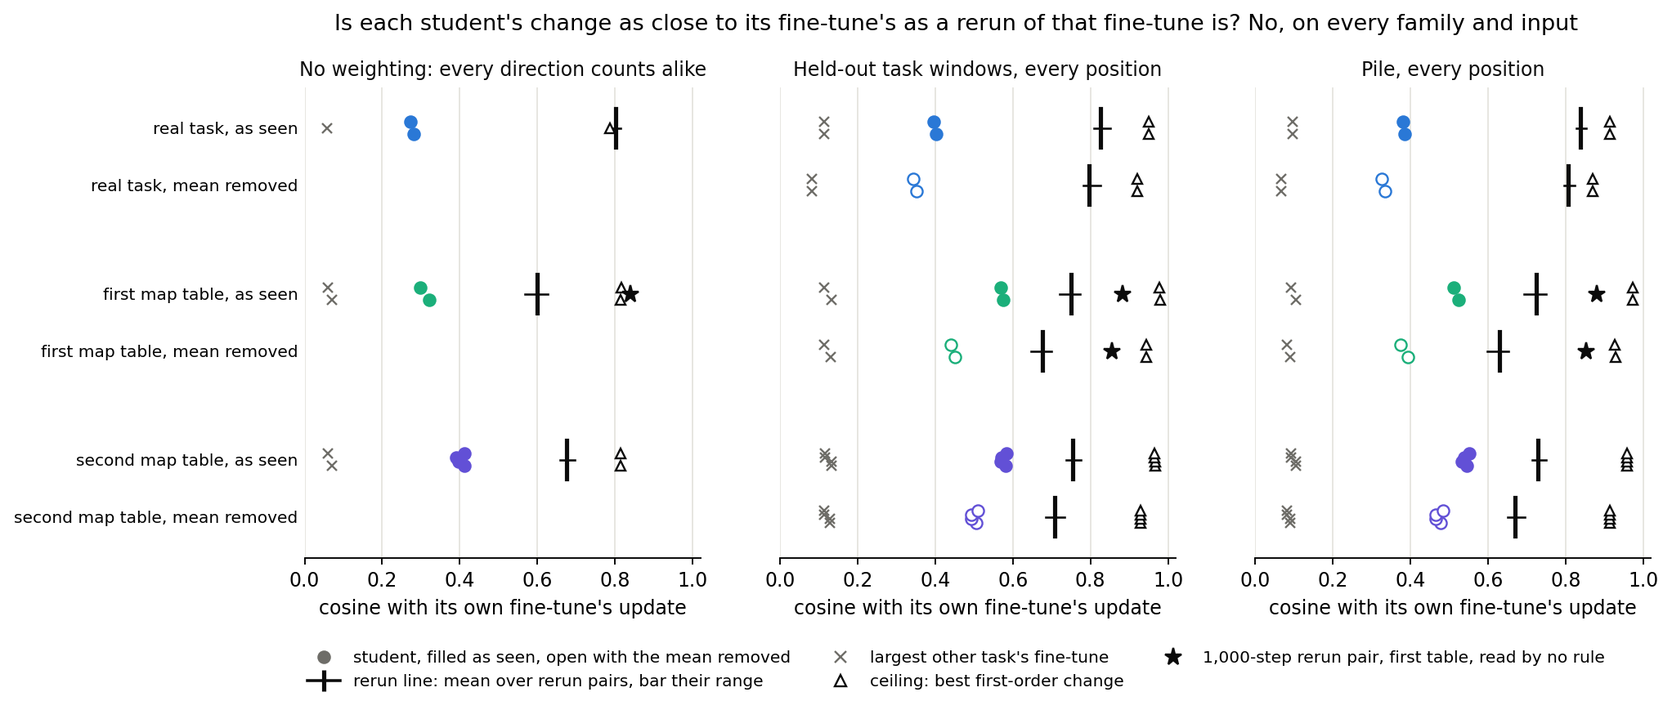
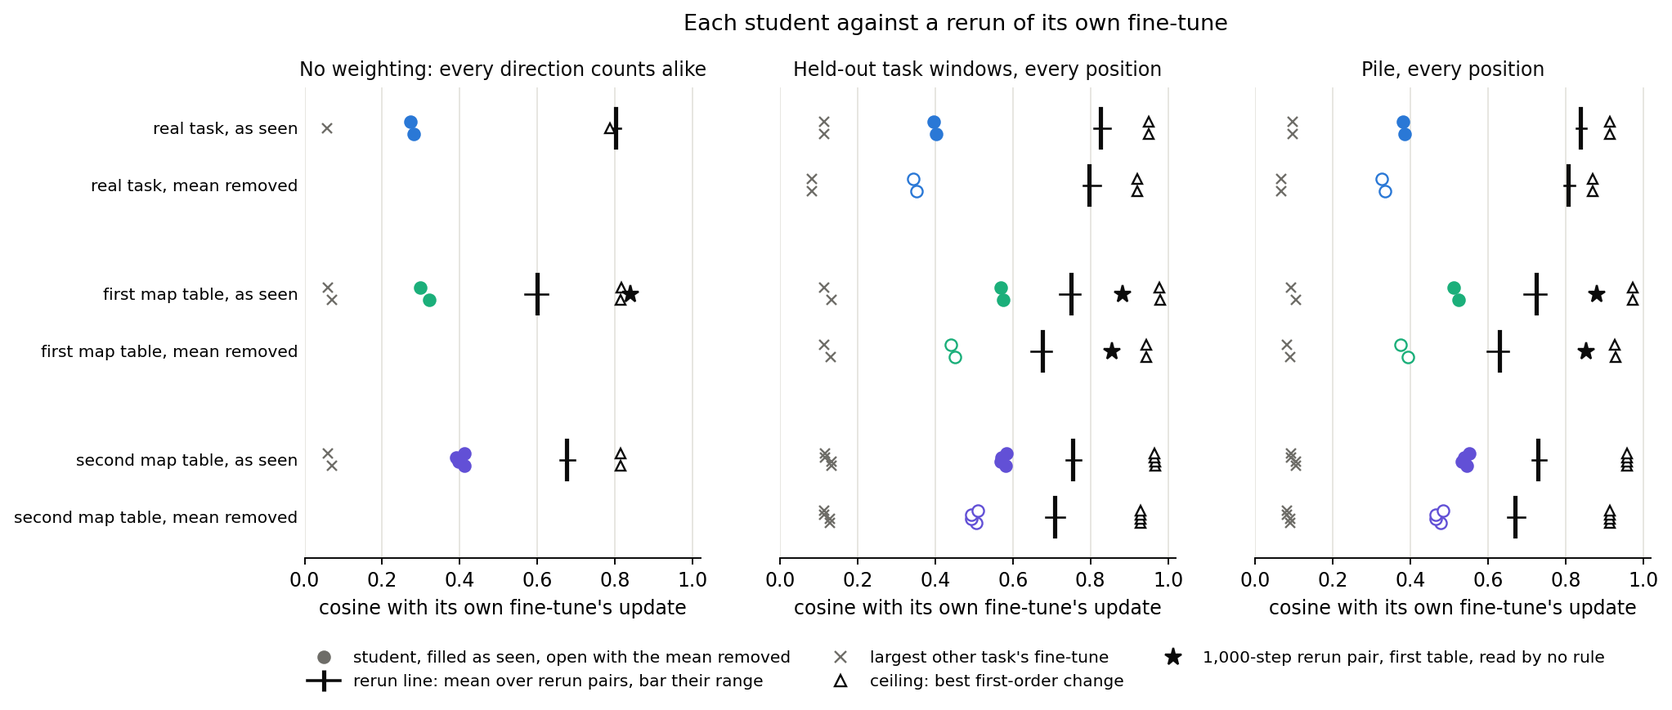
E34 Amendment 10: apply the independent check's findings to the analysis

Changed region(s): [[0.2156, 0.0, 0.955, 0.0621]]

diff --git a/experiments/teacher_training/plot_amend10.py b/experiments/teacher_training/plot_amend10.py
@@ -145,7 +145,7 @@ def cosine_fig() -> None:
     for ax in axes:
         ax.set_xlabel("cosine with its own fine-tune's update")
         ax.set_xlim(0, 1.02)
-    fig.suptitle("Is each student's change as close to its fine-tune's as a rerun of that fine-tune is? No, on every family and input", fontsize=11.5, y=1.0)
+    fig.suptitle("Each student against a rerun of its own fine-tune", fontsize=11.5, y=1.0)
     legend(fig, [
         Line2D([], [], marker="o", color=MUTED, ls="", label="student, filled as seen, open with the mean removed"),
         Line2D([], [], marker="|", color=INK, ms=11, mew=2.2, label="rerun line: mean over rerun pairs, bar their range"),

diff --git a/experiments/TRIED.md b/experiments/TRIED.md
@@ -98,7 +98,7 @@ Codes E1–E13 are the ones the research log ("Update Decomposition", see `READM
 | E34 Amendment 8b | Is the null student's reading more than an adversary start's noise, and does its low gap go with its start or its teacher? (`experiments/teacher_training/amend8b.py`, `cluster/teacher_amend8b.sbatch`, 2026-11-02; predictions `predictions_amend8b.json`; report section "Amendment 8b" of `reports/analyses/2026-11-02_analysis_e34-amend8-base-control.md`, figures `figures/amend8b_{seeds,cells}.png`; MATS L40 `debug`, jobs 48582, 48583, $0) | seeds: saved bf16 states of the real student, null student and random start through the 20-step adversary at starts 0, 1, 2; true-label Adam at start 0 as positive control. moved: the null teacher from the random start's saved start, after that start with teacher = W₀ as control; read at 100 and 1,000 | Controls pass; rebuilds within 3.1% of fp32 reads. S1 filed answer **within noise**: excess 0.305, spread 0.367, positive control apart. Not the filed rule: null above real at each of 3 same-start pairs, 1.22 to 1.39 times, means 1.35 and 1.03. S2: null inconclusive, real and random start pass (0.95). S3: null apart from the random start, size 0.0257 against 0.0228. M1 **the teacher**: gap 0.0115 between a 0.0097 and b 0.0426, position 0.117, against lean 'the start'. Moved state's check 1.56, inconclusive, size 0.0296, damage 0.121, Δ-out 0.821 | A student's reading differs between the base and one null teacher as what it copies; against the real student it is within noise. One null teacher does not stay at the base's level; no cause is known, no run varied damage alone, and the same-damage fine-tune in Δ reads 2.64. One task, one label draw. Why the base as teacher ends so far above a null teacher stays open |
 | E34 Amendment 8c | Does a null student reproduce a direction as the real one does, and how much of each student's weight change lies along its own teacher and the other? (`experiments/teacher_training/amend8c.py`, `cluster/teacher_amend8c.sbatch`, 2026-11-02, from the review's items 1, 2, 5; predictions `predictions_amend8c.json`; report section "Amendment 8c" of `reports/analyses/2026-11-02_analysis_e34-amend8-base-control.md`, figure `figures/amend8c_cosines.png`; MATS L40 `debug`, job 48613, $0) | Real and null students of T1000 and the null fine-tune at step 100, batch orders 0 and 1, E34 arm A recipe; all 15 cosines of δW over the 24 matrices among four students and two teachers; no harness read but W₀'s | Regenerated cosines match Amendment 8's within 0.001. C1 **reproduces**: 0.974 against 0.927, ratio 1.05 (lean 'partly'). C2 both 'own', `follows_own_teacher` true: real 0.274 against 0.019, null 0.367 against 0.048, so 7.5% and 13.4% of squared length along own teacher. C3 'not shown', 0.0019; cross-order cosines 0.086 to 0.091; shared share of the real student with the null 0.105 to 0.111 | Reproducing does not mark the real student. A student's direction overlaps its own teacher's more than the other's, on one pair; "its direction is its teacher's" is not supported. The other 87-93% lies along neither teacher; most of it reproduces across batch orders (about 84-85% of squared length on a shared-vector reading) and is unidentified; saved offsets and `uv0.pt` allow $0 readings |
 | E34 Amendment 9 | Does the student's weight change point along the part of its fine-tune's update the subcomponents could write? (`experiments/teacher_training/amend9.py`, `plot_amend9.py`, 2026-11-02, option D of `reports/plans/2026-11-02_plan_commute-next-draft.md`; plan `reports/plans/2026-11-02_plan_e34-amend9-student-move.md`; predictions `predictions_amend9.json`; analysis `reports/analyses/2026-11-02_analysis_e34-amend9-student-move.md`, notebook `notebooks/E34_teacher_training.ipynb` last section, figures `figures/amend9_*.png`; `cpu-run`, no GPU, $0) | Ten saved students against six saved fine-tunes (real, null, two random-map tables at two seeds): cos(s, I(δW)), cos(s, δW), inside share of δW, student's own inside share, size, over the 24 matrices in fp64, every weight counted alike. Controls first: least-squares first order reads 1, do-nothing reads √share, earlier cosines re-read | Controls pass (2.2e-16; re-read within 1.8e-6). Inside share 0.62-0.67 against a random update's 0.59-0.64 (four saturated matrices give over half of the inside part; on the other 20, 0.44-0.47 against 0.40-0.43, independent check). Cosine real 0.348, 0.357; null on its own 0.461, 0.462; first table 0.365, 0.392; second table 0.481-0.506; other fine-tune 0.023-0.061. P1 'expressible change', P2 'reads its own' twice (other-table lean 'partly' missed), P3 'in the span' (largest 0.00033). Reach along the inside part: real 0.32, 0.33; null and map tables 0.86-1.10 | "Copies" was nearly excluded by arithmetic before the run, and the filed "can express" holds for any student by construction, so P1 could only say "not copies, counted by weight" (a flaw in the filing, not a new verdict). The null fine-tune, which teaches no task but moves predictions 0.53 nats, reads above the real one (0.46 against 0.35) and inside the map tables' range, so the cosine cannot be read as how much was taught; cause untested. Reach depends heavily on fine-tune length (independent check, unfiled). Weight-counted, so it cannot show the student differs from the fine-tuned model on the data: the filed consequence for the headline wording is held back until an input-weighted read. Open oddity, no cause asserted: `h.3.attn.k_proj` reads -0.10, -0.13 on the real students, +0.56 on the null. Not run: input-weighted form, a filed per-matrix read, E42's students, a second real fine-tune, why k_proj |
-| E34 Amendment 10 | Is the student's weight change as close to its fine-tune's as a rerun is, weighted by the inputs the model sees? (`experiments/teacher_training/amend10.py`, `plot_amend10.py`, 2026-11-02, option (a) of card decision-commute-settled; plan `reports/plans/2026-11-02_plan_e34-amend10-input-weighted.md`; predictions `predictions_amend10.json`; results `amend10.json`, `amend10_stopped_job49463.json`; analysis `reports/analyses/2026-11-02_analysis_e34-amend10-input-weighted.md`, notebook `notebooks/E34_teacher_training.ipynb` last section, figures `figures/amend10_*.png`; Slurm 49463 stopped, 49467, L40, $0) | Eight saved students against own fine-tune, by input second moment on W₀: held-out windows and Pile at every position, as seen and with the mean removed; references: reruns in batch order alone, another task's fine-tune, the first-order ceiling. Trigger alone and trigger + task read apart | Further than a rerun in angle and length on both families and every input read. Student as seen on windows and Pile: real 0.38-0.40 against 0.83-0.84, rand32 0.51-0.58 against 0.72-0.75, rand32b 0.53-0.58 against 0.73-0.76. Unweighted were 0.27-0.41, gaps narrowed 0.27-0.53 to 0.18-0.43; side unchanged. Map students further than no change. Seed read 'follows its own run', against the lean. Power control has no content on Pile (k/d 1 on 24 of 24) and little on windows | Line closes on this model with per-family wording: real and rand32 "reproduce behaviour (cited) by a change further than a rerun"; rand32b further than a rerun, keeps gain, loses about a fifth of the re-switching term, "reproduces" not available. Scope: each matrix's output on W₀'s inputs, not the trigger. Not read: downstream effect; cause of the gap. Families not joined: rerun lengths differ (10, 30, 1,000 steps); rand32b's fine-tunes read P(target) about 0.99, not the filed 0.55 |
+| E34 Amendment 10 | Is the student's weight change as close to its fine-tune's as a rerun is, weighted by the inputs the model sees? (`experiments/teacher_training/amend10.py`, `plot_amend10.py`, 2026-11-02, option (a) of card decision-commute-settled; plan `reports/plans/2026-11-02_plan_e34-amend10-input-weighted.md`; predictions `predictions_amend10.json`; results `amend10.json`, `amend10_stopped_job49463.json`; analysis `reports/analyses/2026-11-02_analysis_e34-amend10-input-weighted.md`, notebook `notebooks/E34_teacher_training.ipynb` last section, figures `figures/amend10_*.png`; Slurm 49463 stopped, 49467, L40, $0) | Eight saved students against own fine-tune, by input second moment on W₀: held-out windows and Pile at every position, as seen and with the mean removed; references: reruns in batch order alone, another task's fine-tune, the first-order ceiling. Trigger alone and trigger + task read apart | Further than a rerun in angle and length on both families and every input read. Student as seen on windows and Pile: real 0.38-0.40 against 0.83-0.84, rand32 0.51-0.58 against 0.72-0.75, rand32b 0.53-0.58 against 0.73-0.76. Unweighted were 0.27-0.41, gaps narrowed 0.27-0.52 to 0.18-0.43; side unchanged. Map students further than no change. Seed read 'follows its own run', against the lean. Power control has no content on Pile (k/d 1 on 24 of 24) and little on windows | Line closes on this model with per-family wording: real and rand32 "reproduce behaviour (cited) by a change further than a rerun"; rand32b further than a rerun, keeps gain, loses about a fifth of the re-switching term, "reproduces" not available. Scope: pooled over the 24 matrices, at each matrix's output on W₀'s inputs, not the trigger. Not read: downstream effect; cause of the gap. Families not joined: rerun lengths differ (10, 30, 1,000 steps); rand32b's fine-tunes read P(target) about 0.99, not the filed 0.55 |
 | E46 | Re-gating line reset, stage 0: is the gate gain g (log-odds the target gains from the change in which subcomponents Γ turns on) an instrument, i.e. does it pass nulls a real fine-tune fails? (`experiments/regating_table/`, 2026-10-28/29; plan `reports/plans/2026-10-28_plan_regating-line-reset.md` with Amendments 1-3; reports `reports/analyses/2026-10-29_analysis_e46-regating-table.md` and `reports/analyses/2026-10-29_analysis_e46-amendment3.md`, notebook `notebooks/E46_regating_table.ipynb`) | On the 67M: E18 and E12 fine-tunes (copy and random-map tasks, two seeds) against nulls: other-target fine-tune, sign-flipped δW, a Gaussian δW matched to the fine-tune's off-target KL (Amendment 2 raised the unsourced 10x norm cap to 100 after it bound on 6 of 7 rows), and a per-key direct write into block 1's MLP output (P0.4). Amendment 3 split the write and random nulls by least squares and read stage 1's stand-in ratio on them. Slurm 42604, 42675, 42791, 42993, $0 | P0.2 replicated E12 (copy 0.87-0.97, random-map 0.36-0.41). P0.4 passed thinly (write reads 0.16 and 0.34 of the copy fine-tune, 0.48 and 0.65 of the random-map fine-tunes). P0.3 inconclusive at matched KL: 6 of 7 random rows over the 0.1-nat floor (largest rand32 +0.49 against a fine-tune 3.75), none at the fail bar; g follows the random change's own real gain G. Amendment 3: the split hand writes read: random map A 0.40 against 0.36; random map B 0.57 against 0.39-0.41; copy writes, confounded, 0.89 and 1.13; random rows undefined (subcomponent gain under 1 nat); writes split with 38% in-span against 80%; A3.1 missed on random map B (interval clears the fine-tunes'), tree branch 5. Reading of the cells: masked gain = g + 0.04-0.51 nats, so the ratio is nearly g over the subcomponent gain; the split changes kept are 0.01-0.05 of it on every row | The stand-in ratio adds little beyond stage 0's g and the in-span share and reads misleadingly as a share kept; card: its role in stage 1 (lead: drop it) |
 | E47 | Claim tests: do the five claims the red team weakened survive two to four adversary starts and the missing controls? (`experiments/claim_tests/`, 2026-10-28/29; plan `reports/plans/2026-10-28_plan_claim-tests.md` with Amendment 1; review answered `reports/reviews/2026-10-29_review_claims-red-team.md` (addendum 2026-10-29); predictions `results/predictions.json`; results `results/{t1,t1b,t2,t2b,t2c,t3,t4,t4b,t5,t5b,combined}.json`; analysis `reports/analyses/2026-10-29_analysis_e47-claim-tests.md`, notebook `notebooks/E47_claim_tests.ipynb`, figures `figures/e47_*.png` from `plot.py`; MATS cluster L40, debug QoS, jobs 42651-42654, 42666, 42667, 42669, 42670, 42719, 42772, 42860 (t4c), 3-24 min each, $0) | On the 67M, Pile val rows 0-255 (t2c: 256-511), lines from each job's W₀ floor (1.241 / 1.813; t2c 1.450 / 1.552). (i) E34 r1 and E42 rand32 teacher-trained decompositions vs regenerated do-nothing at the budget start and harness starts 0-2; (ii) LoRA rank 8, 32, 128 teacher-trained, mean of harness starts 0-1, full-rank Adam control, two row sets; (iii) r1 plain-SGD keep at rate 0.03 stopped at the rate-0.01 run's sizes, seeds 0-1, plus the step-1000 update scaled down; (iv) E43 do-nothing vs teacher training plus remainder at steps 10 and 1000, harness starts 0-2; (v) plain SGD as teacher training's optimiser on r1's Adam and LoRA teachers at (0.03, 100), (0.01, 1000), (0.003, 1000) | (i) stands on both teachers: copies worst 1.225 and 1.012, every do-nothing fails somewhere (rand32's power from starts 1-2). (ii) still weakened: rank 8 inconclusive on rows 0-255 (1.276), passes on 256-511 (1.154); rank 128 climbs to 1.532 on 256-511 only; combined absolute and cap unsettled. (iii) mixed on both seeds (lean falls): the faster run keeps 0.08-0.09 more at matched size; size alone not isolated, the scaled-down arm unscored (P 0.06-0.26). (iv) unsettled at both steps: step 1000 q 1.27, 1.005, 1.11; step 10 'falls' by its rule, carried by one start (q 0.65 at h0; 0.96, 1.07), and the follow-up t4c (job 42860, plan Amendment 2) read the step-10 teacher-trained state alone below do-nothing at all three starts (1.69, 1.22, 1.09 vs 2.18, 1.67, 1.33), with plus remainder below both at h0, between at h1, above both at h2 (mixed, as leaned): the remainder's effect flips sign across starts. (v) falls: all six smaller cells pass (0.98-1.17, P ≥ 0.986); only (0.03, 1000) fails, 3.30, read on the Adam teacher only. Independent check `reports/reviews/2026-10-29_review_e47-analysis-check.md` confirmed all verdicts | Four pending cards drafted in the analysis: (ii) rank sweep on rows 256-511, (iii) rewording, (iv) drop the claim, (v) rescope; claims section for (i), (iii), (iv), (v) queued; ranks 32-64 on rows 256-511 with a three-start floor for (ii); rescope `decisions.md` row 50 for (v) |
 | E48 | Pass re-read, stage 1: is the unchanged decomposition's CI-masked model already poor at the cue of the cipher windows, so that the new pass reading ("behaviour kept by the parts Γ switches on, leftover weights at the original's, on the task's own text", decision "Card triage" (2)) would judge VPD rather than the map? (`experiments/pass_reread/run.py`, `src/commute/pass_reading.py`, 2026-10-29; plan `reports/plans/2026-10-29_plan_e48-pass-reread.md`; predictions `results/predictions.json`; results `results/saved.json`; analysis `reports/analyses/2026-10-29_analysis_e48-pass-reread.md`, notebook `notebooks/E48_pass_reread.ipynb`, figure `figures/e48_s1_fidelity.png` from `plot.py`; MATS cluster L40, debug QoS, job 42757, 2 min, $0) | W₀ alone: KL(W₀ ‖ CI-masked W₀, Δ at Δ₀) at the trigger of each task's held-out windows, divided by the same KL per position on the harness's 256 Pile val rows (F); stop rule F ≥ 1.5 on rand32 or rand1 → fallback; ident32 and the four E34 tasks' triggers printed beside | Apparatus passed (Δ-out Pile KL 0.3482 vs 0.348; fp32 mask-1 path −1.3e-9). F = 1.86 on rand32, 2.21 on rand1 (both over), 1.86 on ident32 (identical to rand32 by construction: same windows, K₀ never reads the target); the E34 tasks' triggers 0.76-1.48. Δ₀ in or out changes every K by under 0.004 nats. S1 = fallback, as leaned | Fallback to option (c) under the user's decision: reading A decides the pass, the cue reading is printed beside it. Stage 2 (the saved E42 and E34 copies under the new reading), stage 3 (carriers of the E42 gain) and job 2 (E34's regenerated copies) not run, by design; P1-P7 unscored. The rare target stays "not placed, narrow miss" under reading A (decision (7)), no rerun |

diff --git a/reports/analyses/2026-11-02_analysis_e34-amend10-input-weighted.md b/reports/analyses/2026-11-02_analysis_e34-amend10-input-weighted.md
@@ -2,19 +2,19 @@
 
 *E34 Amendment 10, 2026-11-02. Plan `reports/plans/2026-11-02_plan_e34-amend10-input-weighted.md`. Rules `experiments/teacher_training/results/predictions_amend10.json`. Results `results/amend10.json`, job 49467: L40, `debug`, $0. Figures `plot_amend10.py`. Review `reports/reviews/2026-11-02_review_e34-amend10-code.md`; only that one review, as this was a free job with the controls first.*
 
-We compared each decomposition after teacher training with its fine-tuned model's update, on the inputs the model sees, and against reruns of the same fine-tune. On every task the change is further from the fine-tune's than a rerun is, in angle and in distance, so "copies the fine-tune's change on real inputs" is not available. For `GOALS.md`, the wording comes per task from the filed table below, its behaviour half cited from earlier runs, and the commute line closes on this model.
+We compared each decomposition after teacher training with its fine-tuned model's update, on the inputs the model sees, and against reruns of the same fine-tune. In each family separately, the change is further from the fine-tune's than a rerun of its own length, in angle and in distance, so "copies the fine-tune's change on real inputs" is not available. For `GOALS.md`, the wording comes per task from the filed table below, its behaviour half cited from earlier runs, and the commute line closes on this model.
 
 ## The wording, per family
 
-The filed outcome is "further than a rerun", in angle and in length, on both families. No sentence joins them.
+The filed outcome is "further than a rerun", in angle and in length, in each family taken by itself. No sentence joins the families.
 
-- **Real task.** Reproduces its behaviour by a change further from the fine-tune's than a rerun is. The behaviour is cited from E34, 0.0286 nats from the fine-tuned model.
+- **Real task.** Reproduces its behaviour by a change further from the fine-tune's than a rerun is, at cosine 0.38 to 0.40 and distance 0.95 to 1.04 as seen, 0.33 to 0.35 and 0.99 to 1.04 with the mean removed. The behaviour is cited from E34, 0.0286 nats from the fine-tuned model.
 - **First map table, `rand32`.** Reproduces its behaviour by a change further from the fine-tune's than a 10-step rerun is. The behaviour is cited from E12 Amendment 2: its gain ratio is 1.02, and the re-switching term moves 2%.
 - **Second map table, `rand32b`.** Further than a 30-step rerun, keeps its gain, and loses about a fifth of the re-switching term. Both are cited from E12 Amendment 2. "Reproduces its behaviour" is not available here.
 
-**Scope of each sentence.** Each holds at each matrix's output on W₀'s inputs, at every position of held-out windows and of Pile. None is about the trigger, and this job read no behaviour. "Different change" may mean only "further than a rerun". The re-switching term is what Γ's changed values give the released subcomponents.
+**Scope of each sentence.** Each holds pooled over the 24 matrices, at each matrix's output on W₀'s inputs, at every position of held-out windows and of Pile. None is about the trigger, and this job read no behaviour. Provisional, unfiled, no margin of its own (review `reports/reviews/2026-11-02_review_e34-amend10-analysis.md`, finding 1): on the map tables, 1 to 4 of 24 single matrices read above the rerun line, `h.0.mlp.down_proj` for all six students (0.80 to 0.89 against 0.71 to 0.81). No verdict reads it. "Different change" may mean only "further than a rerun". The re-switching term is what Γ's changed values give the released subcomponents.
 
-**Read apart.** At the trigger alone, and under the training's own weighting of trigger plus task, both families also read further on both axes. Neither read decides against the sentences.
+**Read apart.** At the trigger alone, and under the training's own weighting of trigger plus task, each family also reads further on both axes, taken by itself. Neither read decides against the sentences.
 
 ## What we measured
 
@@ -28,7 +28,7 @@ The references are reruns differing only in batch order, the largest cosine from
 
 ![amend10_cosine](../../experiments/teacher_training/figures/amend10_cosine.png)
 
-**Reading it.** No, for all eight students, in both forms on both input sets. Each student sits far above another task's fine-tune, so it follows its task, and far under the rerun line. The ceiling is above the line everywhere, so "further" is not forced by construction. On the map tables the shortfall is at least 0.17, and on the real task at least 0.42. Margins are about 0.05.
+**Reading it.** In each family separately, no student is as close as a rerun of its own fine-tune, in both forms on both input sets. Each student sits far above another task's fine-tune, so it follows its task, and far under the rerun line. The ceiling is above the line on both input sets, so "further" is not forced by construction. On the map tables the shortfall is at least 0.17, and on the real task at least 0.42. Cosine margins are about 0.05.
 
 | As seen; mean removed | Student | Rerun line | Other task | Ceiling |
 |---|---|---|---|---|
@@ -45,7 +45,7 @@ Student is each family's midpoint; its students lie within 0.02. Other task is t
 
 ![amend10_distance](../../experiments/teacher_training/figures/amend10_distance.png)
 
-**Reading it.** Every student is further than a rerun, and reruns read 0.57 to 0.86 at size 1. Map-table students are further than no change would be, at 1.16 to 1.82. Their sizes are 1.33 to 2.04. Real students read just under 1 on task windows, at most 0.99, and just over on Pile, at most 1.04. Their sizes are 0.66 to 0.87.
+**Reading it.** In each family separately, every student is further than a rerun of its own length, and reruns read 0.57 to 0.86 at size 1. Distance margins are 0.06 to 0.11, set by the rerun range. Size and distance are different quantities. Map-table students are further than no change would be, at 1.16 to 1.82. Their sizes are 1.33 to 2.04. Real students read just under 1 on task windows, at most 0.99, and just over on Pile, at most 1.04. Their sizes are 0.66 to 0.87.
 
 ## How far weighting moved the reading
 
@@ -53,11 +53,13 @@ Amendment 9 counted every direction alike. Weighting raised the student's cosine
 
 | | Student: none; task; Pile | Mean removed: task; Pile | Rerun: none; task; Pile | Gap: none; narrowest |
 |---|---|---|---|---|
-| Real | 0.28; 0.40; 0.38 | 0.35; 0.33 | 0.80; 0.83; 0.84 | 0.53; 0.43 |
+| Real | 0.28; 0.40; 0.38 | 0.35; 0.33 | 0.80; 0.83; 0.84 | 0.52; 0.43 |
 | `rand32` | 0.31; 0.57; 0.52 | 0.45; 0.38 | 0.60; 0.75; 0.72 | 0.29; 0.18 |
 | `rand32b` | 0.40; 0.58; 0.54 | 0.50; 0.47 | 0.67; 0.76; 0.73 | 0.27; 0.18 |
 
 Roughly half of the student's rise goes when the mean is removed. Gaps here are between midpoints.
+
+Unfiled mean's share of the energy, task windows and Pile (review, finding 4; no cause read). Real task: fine-tune 0.385 and 0.341, student 0.403 and 0.515. First table: fine-tune 0.637 and 0.636, student 0.633 and 0.663. Second table: fine-tune 0.520 and 0.523, student 0.576 and 0.645.
 
 ## The control stop, and what the control can say
 
@@ -74,9 +76,9 @@ Here $k/d$ is the share of a matrix's input directions above that threshold. On 
 
 ## What the seed read can and cannot mean
 
-On task windows and Pile, each map-table student reads nearer its own fine-tune than the other seed's students do, by 0.065 to 0.106. The filed label is "follows its own run", against the filed lean of "cannot tell" or "mixed". It can mean the student holds something tied to the run it imitated, beyond what the task's runs share.
+On task windows and Pile, each map-table student reads nearer its own fine-tune than the other seed's students do, by 0.065 to 0.106. The filed label is "follows its own run", against the filed lean of "cannot tell" or "mixed". It can mean the student holds something tied to the run it imitated, beyond what the task's runs share. The smallest excess clears its margin of about 0.055 by under 0.01 on Pile.
 
-It cannot mean closeness to that run, since the student stays under the rerun line. It rests on two seeds per table, with no read on the real task. Shared batches cannot carry it alone, because the batch orders cross them. With sharing matched on Pile, as seen, the excess is still 0.08 or more; this comparison is unfiled. At the trigger alone the label is "mixed", with three of four second-table students reading "follows the task only".
+It cannot mean closeness to that run, since the student stays under the rerun line. It rests on two seeds per table, with no read on the real task. Shared batches cannot carry it alone, because on the second table the orders cross them (on the first, both students are order 0). With sharing matched on Pile, as seen, the excess is still about 0.08; this is unfiled. At the trigger alone the label is "mixed", with three of four second-table students reading "follows the task only".
 
 ## The length limit
 
@@ -86,11 +88,11 @@ The plan and filing give map-table fine-tunes a target probability of about 0.55
 
 ## Surprises
 
-Four filed leans missed. The seed read is above. The trigger alone leaned "cannot tell", for wide margins that did not come. The power control's Frobenius bound stopped the first job. Real-task ceilings on Pile, 0.91 and 0.87, sit under the leaned 0.93.
+More than four filed leans missed (review, finding 6). The seed read is above. The trigger alone leaned "cannot tell"; its margins did come on the real task, 0.071 and 0.111 in cosine. The power control's Frobenius bound stopped the first job. Ceilings with the mean removed, and the real task's on Pile at 0.91 and 0.87, sit under the leaned 0.93. Also missed: the second table's target probability; split-half at 0.001 to 0.005 against 0.01 to 0.2; $k/d$ of 1.0 against 0.7 to 0.995; the map tables' rerun range, 0.053 to 0.056 against 0.05.
 
 ## What next
 
-The line closes on this model with these sentences. Only a downstream read could change them.
+The line closes on this model with these sentences. A downstream read would add whether the differences matter; it would not change the "further" half. Students of longer map fine-tunes are unread.
 
 ## Scorecard
 
@@ -102,7 +104,7 @@ The line closes on this model with these sentences. Only a downstream read could
 | P4 | Trigger alone | map 0.46 to 0.66, line 0.68 to 0.81; real 0.31 to 0.34, line 0.72 | further; further | **miss**: "cannot tell" |
 | P5 | Trigger + task | map 0.45 to 0.63, line 0.68 to 0.80; real 0.33 to 0.35, line 0.73 to 0.76 | further; further | hit |
 
-Other controls passed: layout, the Frobenius re-read of Amendment 9, each recipe at its saved seed, and the real reruns' target probability. Rounding is at most 1e-5; the largest matrix share is 0.14 to 0.17.
+Other controls passed: layout, the Frobenius re-read of Amendment 9, each recipe at its saved seed, and the real reruns' target probability. Rounding is at most 1e-5; the largest matrix share of a fine-tune is 0.14 to 0.17 on these sets, and a student's reaches about 0.32.
 
 ## Departures from the literature
 

diff --git a/docs/research_log/PENDING.md b/docs/research_log/PENDING.md
@@ -9,4 +9,4 @@ A flush applies every line to `parts/` (README.md → Layout), rebuilds, republi
 
 - 2026-11-02 regating-lead · decisions.md · pending decisions · Remove card decision-says-b: the user kept the filed rule; E62 Amendment 6 running.
 - 2026-11-02 regating-lead · reports/analyses/2026-11-02_analysis_e62-amend6-overwrite.md · E62 card, claims table, timeline, pending decisions · Independently checked (reports/reviews/2026-11-02_review_e62-amend6-analysis.md): E62 Amendment 6 reads filed `mixed`, worded "leans to B": with B overwritten under W0's held mask at the second A, about 0.65 of the lean to B survives, B's top-1 falls 0.195 to 0.035, the new token gains 0.053 of the lean; read on the new text, the mask favours the new token; neither of the user's two branches fires, and the numbers go to the user. Arithmetic after the run, no filed rule, assuming the two tokens are exchangeable: neither account alone fits; about 0.62 needs the mask and not the token in the text, 0.32 needs both, 0.06 the text alone; it does not name what carries either part.
-- 2026-11-02 commute-lead · reports/analyses/2026-11-02_analysis_e34-amend10-input-weighted.md · E34 card, claims table, sub-question status, timeline, pending decisions (decision-commute-settled) · E34 Amendment 10: on the inputs the model sees, every student's change is further from its fine-tune's than a rerun is, in angle and length; wording per family from the filed table (real, rand32: reproduces behaviour, cited, by a change further than a rerun; rand32b: further, keeps gain, loses about a fifth of the re-switching term), at each matrix's output, not the trigger; the commute line closes on this model.
+- 2026-11-02 commute-lead · reports/analyses/2026-11-02_analysis_e34-amend10-input-weighted.md · E34 card, claims table, sub-question status, timeline, pending decisions (decision-commute-settled) · E34 Amendment 10: on the inputs the model sees, every student's change is further from its fine-tune's than a rerun is, in angle and length; wording per family from the filed table (real, rand32: reproduces behaviour, cited, by a change further than a rerun; rand32b: further, keeps gain, loses about a fifth of the re-switching term), pooled over the 24 matrices, at each matrix's output, not the trigger; the commute line closes on this model.

diff --git a/reports/reviews/2026-11-02_review_e34-amend10-analysis.md b/reports/reviews/2026-11-02_review_e34-amend10-analysis.md
@@ -131,3 +131,7 @@ I read `plot_amend10.py` against the file: the marks are the JSON's, and the Fro
 - `results/large/amend10/` Grams for the trigger sets, except through the file's reads.
 - The cited E34 and E12 numbers beyond their own result files and reports.
 - Any new verdict. The per-matrix read and the mean shares above are unfiled.
+
+## What the lead did
+
+All eight findings and the housekeeping item on cell 54 were applied to the analysis report, notebook cells 54-57, the Amendment 10 row of `TRIED.md`, the queued log line, and the cosine figure title (`plot_amend10.py`, figures rebuilt). Skipped, with reasons: the README "Current plan" line and the `PYTHONPATH` test note (housekeeping outside the allowed files); finding 8 on the distance figure caption, put in the report text instead of the figure; the per-matrix read is given as one provisional sentence on the map tables only, since the real task reads 0 of 24 and the review gives no fix line for it. No filed verdict changed.
